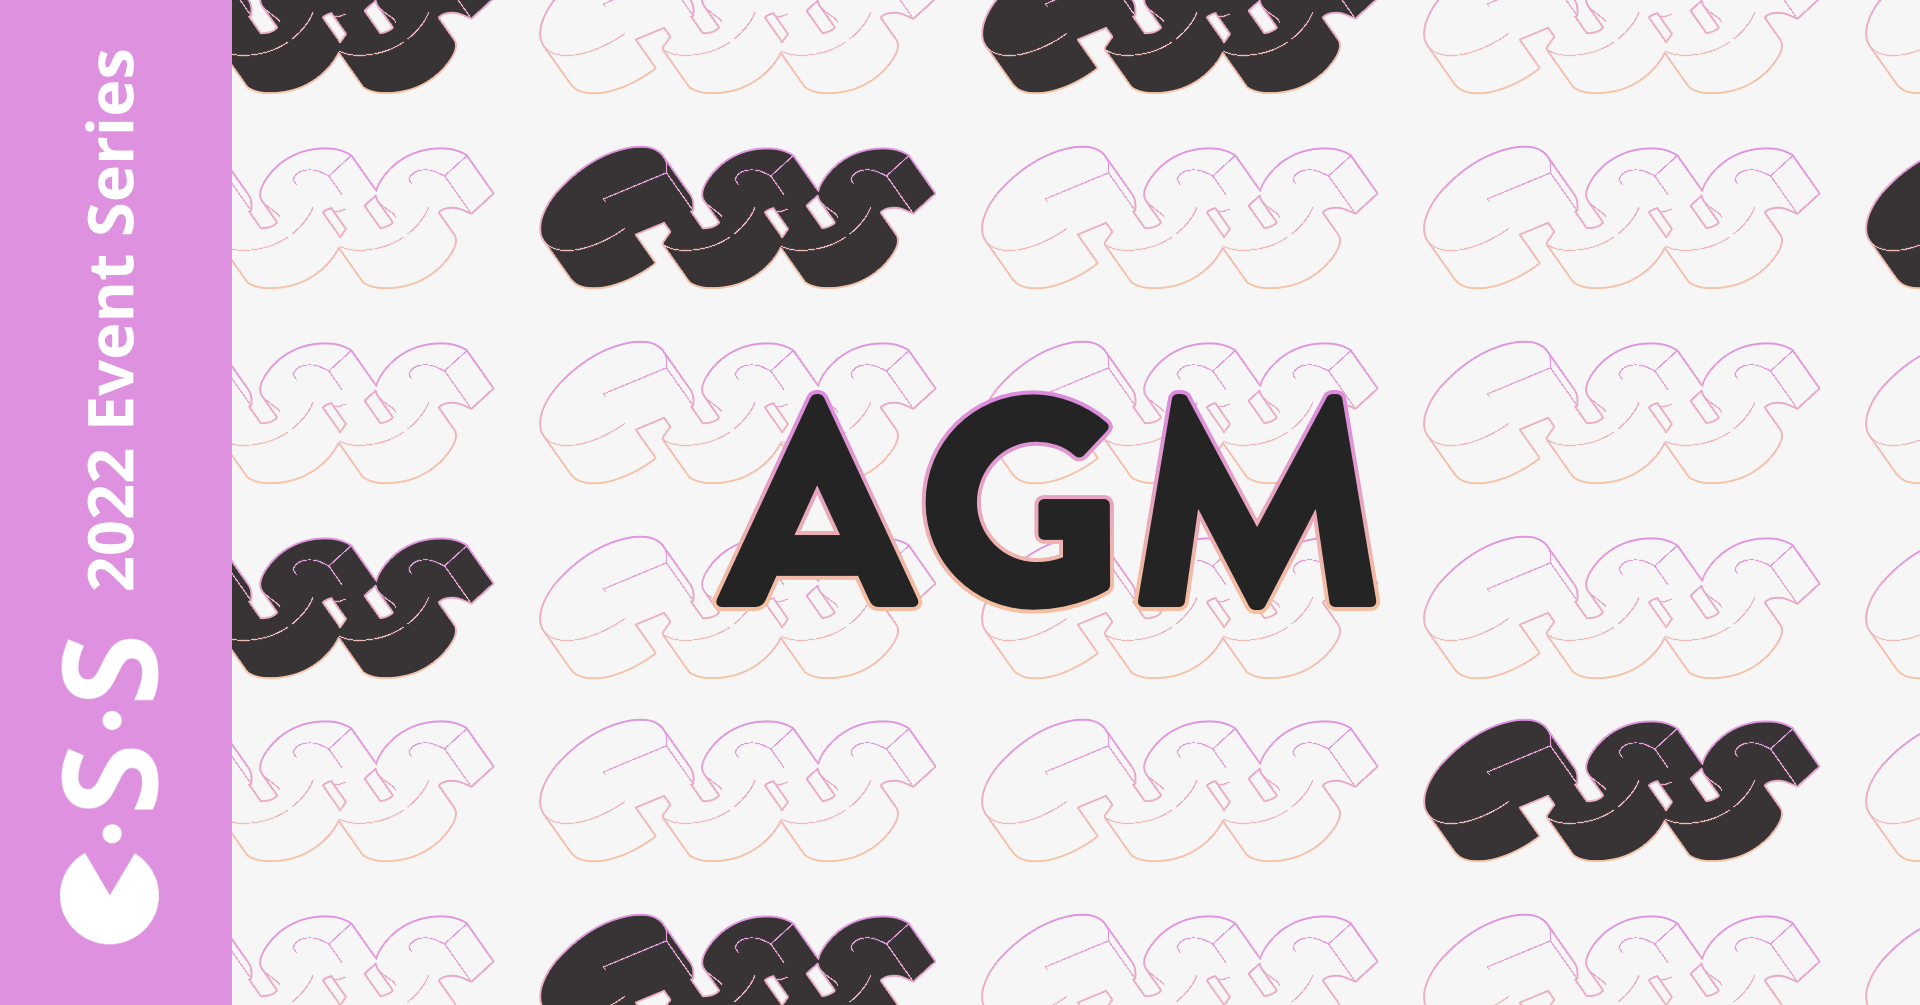
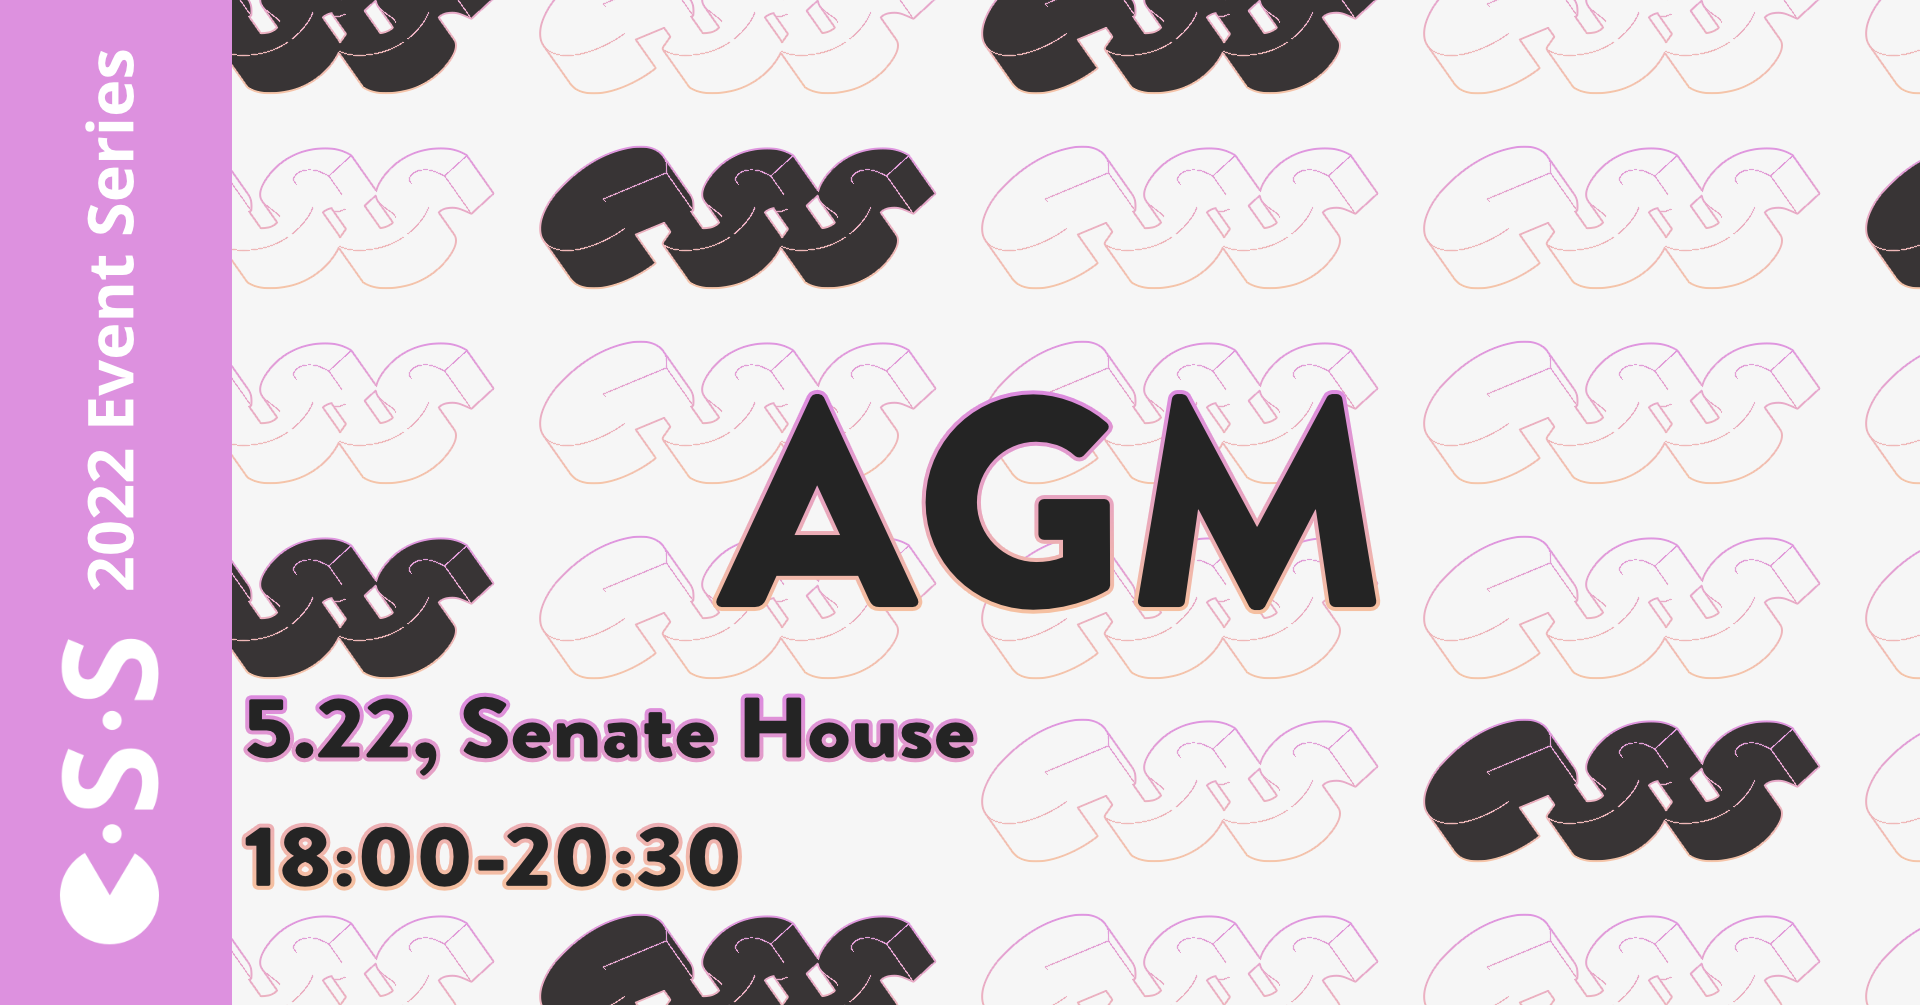
deploy: 304a978743934b11337ffef65a292f4c75e4221e

Changed region(s): [[0.125, 0.6786, 0.5312, 0.8945]]

diff --git a/events/2022_05_09_agm/index.html b/events/2022_05_09_agm/index.html
@@ -647,7 +647,7 @@
        
       <div class="event-page__details__row">
         <i class="fas fa-map-marker" data-tooltip="Event location" aria-label="Event location"></i>
-        <p>Queen's Building 1.6 Lecture Theatre</p>
+        <p>5.22, Senate House</p>
       </div>
        
       <div class="event-page__details__row">

diff --git a/events/index.html b/events/index.html
@@ -376,7 +376,7 @@
       
         <div class="card-grid__card__row">
           <i data-tooltip="Location" class="fas fa-map-marker"></i>
-          <p>Queen's Building 1.6 Lecture Theatre</p>
+          <p>5.22, Senate House</p>
         </div>
       
 

diff --git a/index.html b/index.html
@@ -385,7 +385,7 @@
       
         <div class="card-grid__card__row">
           <i data-tooltip="Location" class="fas fa-map-marker"></i>
-          <p>Queen's Building 1.6 Lecture Theatre</p>
+          <p>5.22, Senate House</p>
         </div>
       
 
